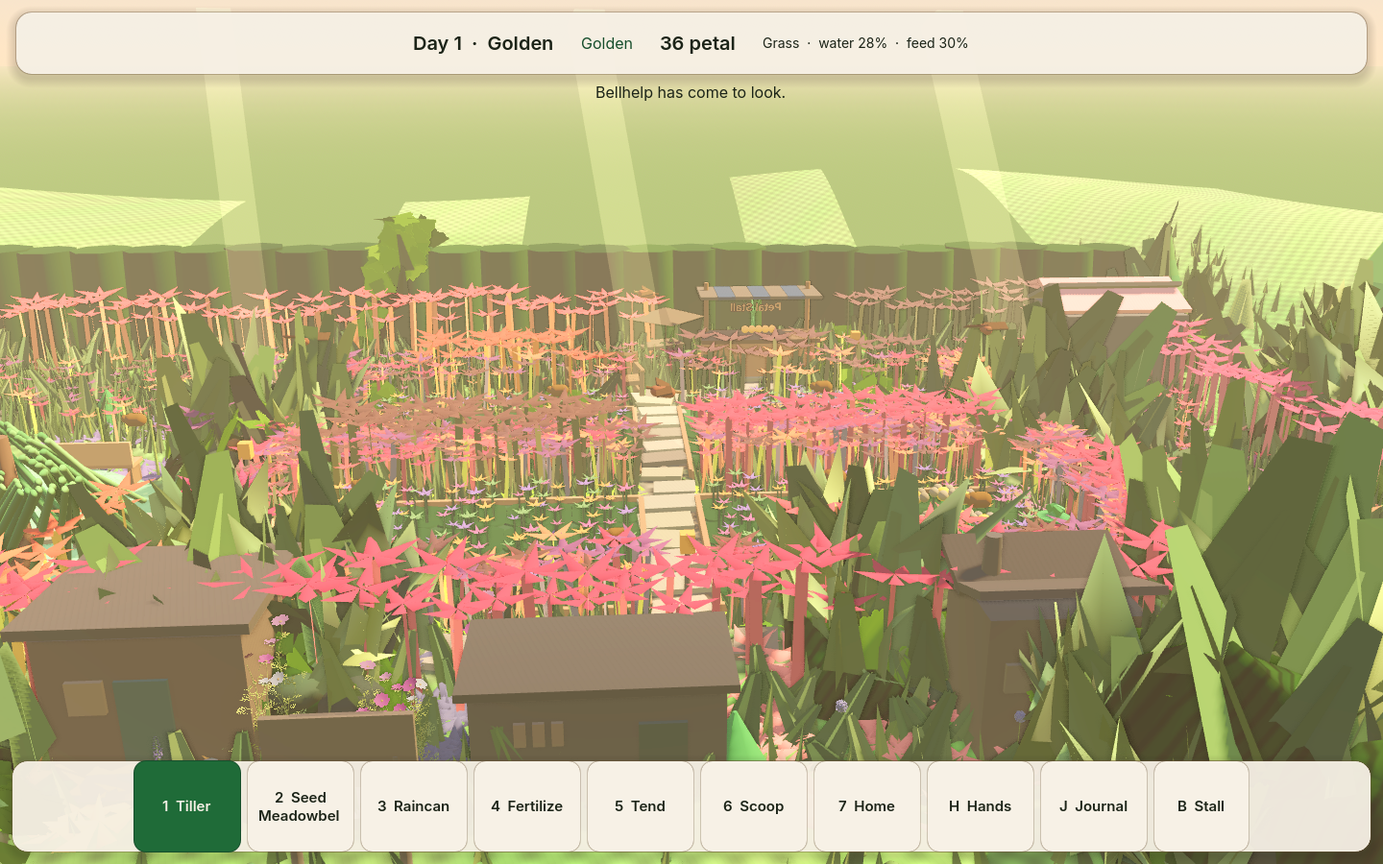
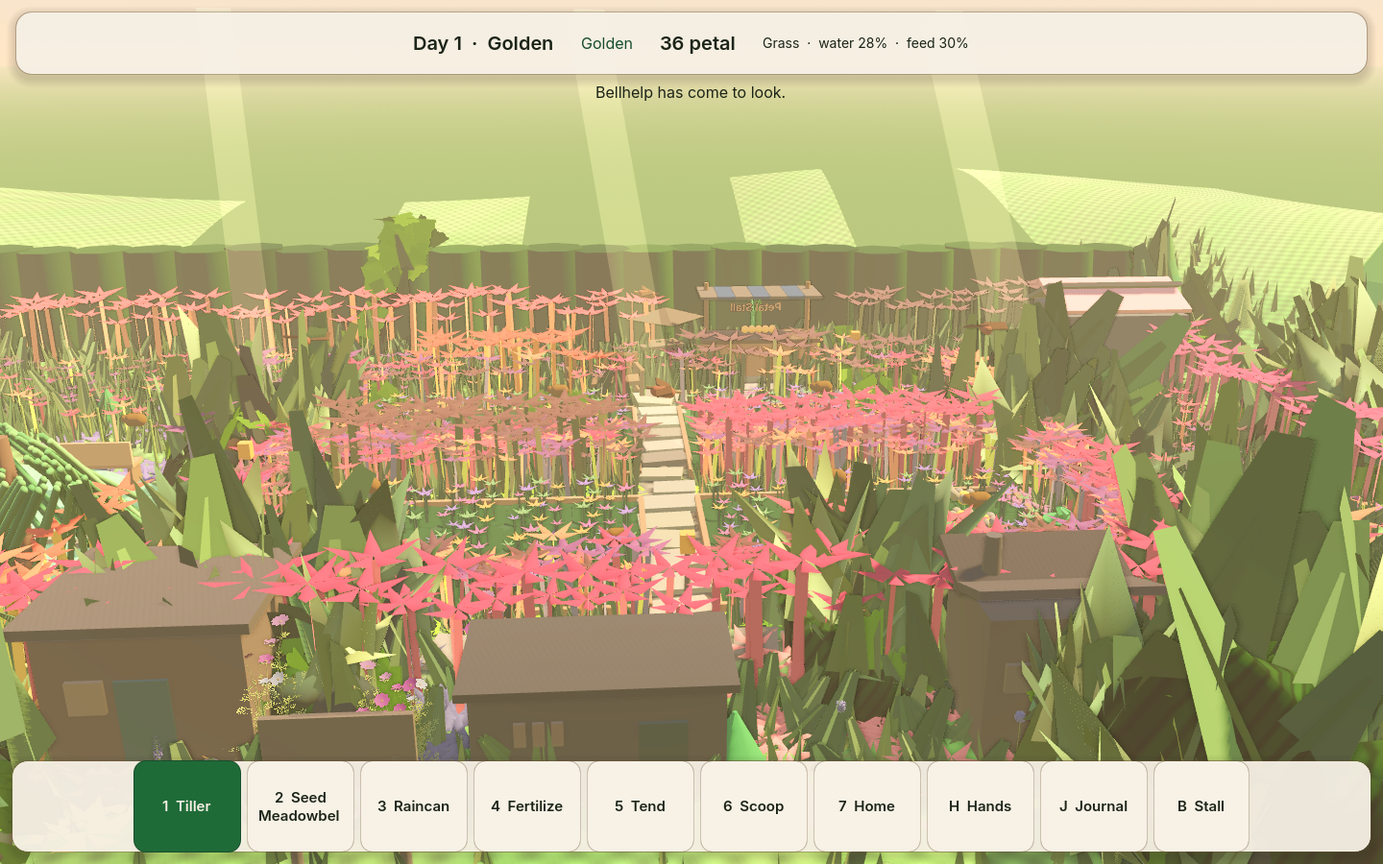
Record crops sitting in the meadow lid.
Planted cells keep the dark lid. The upper band is 1.54% light-green and the hill mean is (212.1, 223.7, 146.5).

diff --git a/docs/PETALWILD_MASTER_STATE.md b/docs/PETALWILD_MASTER_STATE.md
@@ -31,14 +31,14 @@ This machine has no Vulkan surface. Godot falls back to OpenGL 3 / llvmpipe. Aud
 - Large text resizes the garden HUD without leaving the scene.
 - Sim LOD counters. Trust levels named 0–5. Only 0 and 1 can happen, and both stay in the game.
 - Off-screen jellies hide. A resident walks to the nearest placed home kit. A visitor keeps the flower. Back in frame, the body shows again.
-- By day Lumen keeps the stall, Bram walks the plots, and Nessa watches the gate. After dusk they walk home. The directory says which. Ask Bram and he walks the driest tilled bed and waters it. The potting shed is open. Its demand is 1 while he is here. The hedge tea house stands on the south lawn. Its demand is 1 while Nessa is here, and her day round stops at the porch. The research hut stands on the south lawn, west of the tea house. She walks there to file parish notes, nothing leaves the garden, and its demand is 1 once those notes are filed. The media foundry stands between them. After the notes, she can leave a three-episode draft there. Keeping it spends nothing and sends nothing, and foundry demand is 1 once the draft is in the book. The town hall is a board by the south gate. It posts the peach tray and that draft, and its demand is how many are posted. The town beyond the hedge is not simulated. When a creature arrives and Nessa is here, she walks to them and writes the name in the parish book. The journal hides a species name until that creature is sighted. A species that has already visited comes back as a repeat, and the journal says they are back again. Scooping the bank widens the pond, and the new shore sits on the ground. Bulrush wades in once that water and three mature reeds are there. Once Bulrush is a visitor and the beds are wet, Reedic follows. Fertility is the tilled beds, so feeding them counts. Two mature brambles bring Berrypatch, and a third plus those fed beds bring Grapling. A resident Bellhelp brings Cirlark. Dusknip follows a visiting Bellhelp and, once it settles, leaves night-loam, which unwraps the nightlantern seed. A ripe peach and a nightlantern in the evening rain bring Pegapear. Night-loam, two mosspears, and those fed beds bring Gushorn. A planted meadowbell is three bells on a leaf pad, and every crop sits in a ring of eight leaves. An empty untilled bed carries nine dark leaf discs and eight short flowers, and neighboring empty cells share one lid. Tilling or planting that bed clears them and opens the seam again.
+- By day Lumen keeps the stall, Bram walks the plots, and Nessa watches the gate. After dusk they walk home. The directory says which. Ask Bram and he walks the driest tilled bed and waters it. The potting shed is open. Its demand is 1 while he is here. The hedge tea house stands on the south lawn. Its demand is 1 while Nessa is here, and her day round stops at the porch. The research hut stands on the south lawn, west of the tea house. She walks there to file parish notes, nothing leaves the garden, and its demand is 1 once those notes are filed. The media foundry stands between them. After the notes, she can leave a three-episode draft there. Keeping it spends nothing and sends nothing, and foundry demand is 1 once the draft is in the book. The town hall is a board by the south gate. It posts the peach tray and that draft, and its demand is how many are posted. The town beyond the hedge is not simulated. When a creature arrives and Nessa is here, she walks to them and writes the name in the parish book. The journal hides a species name until that creature is sighted. A species that has already visited comes back as a repeat, and the journal says they are back again. Scooping the bank widens the pond, and the new shore sits on the ground. Bulrush wades in once that water and three mature reeds are there. Once Bulrush is a visitor and the beds are wet, Reedic follows. Fertility is the tilled beds, so feeding them counts. Two mature brambles bring Berrypatch, and a third plus those fed beds bring Grapling. A resident Bellhelp brings Cirlark. Dusknip follows a visiting Bellhelp and, once it settles, leaves night-loam, which unwraps the nightlantern seed. A ripe peach and a nightlantern in the evening rain bring Pegapear. Night-loam, two mosspears, and those fed beds bring Gushorn. A planted meadowbell is three bells on a leaf pad, and every crop sits in a ring of eight leaves. An empty untilled bed carries nine dark leaf discs and eight short flowers, and neighboring empty cells share one lid. A planted cell keeps that lid. Tilling an empty cell still opens bare soil.
 
 ## Broken or not built
 
 - The garden does not yet look like the concept plates. See the gap list below.
 - Bellhelp’s five sphere lobes are gone. Five narrow petals run from the tips down to a small pad, with a dark five-petal well, a gold seed, a wider flared whorl, a lower rim, five gap tips past the lobes, a darker band, and a wide short rank inside the tips. The wide skirt of spheres is gone.
 - Lumen’s stalk is one fluted taper, cream at the base and green at the crown. The raised hand holds a seed tray. Each hand is a palm with three fingers and a thumb.
-- Crest leaf cards are 0.4 scale, and the far hedge keeps one 2.5 m tuft in four. A dark shrub row stands just behind that wall, taller at the east end. Light-green in the upper opening band fell from 53% to 24%, and in the lower band from 36% to 13%. The hill did not move. The stall still shows through the middle. The bright blue in that opening was the awning cloth. That stripe is darker now, about (171, 171, 173), and the sky-blue detector on the overview is 0. The shrub row behind the wall was the pale green in the upper band. That check now covers 1.2%, down from 3.5%. The crest leaf cards and the far trees were the side-opening pale pixels. The north backdrop trees are shorter. Paths are dark dirt with darker flagstones. Blooms are rose. StandardMaterial specular is off. The bench and planter are darkened, bright plant-atlas texels are capped, and the lantern glass is amber. The pink disk by the south-west rail, the untilled grass-plot tops, the meadowbell petals, the mauve bed, the resident hands, the light flagstones, the path dirt, and the loose stones are darkened. Overview pixels at pure white are 0. Neighboring empty cells share an overlapping dark lid. The four plots still stand apart along the paths. On this shot the upper-band check is 1.61% (1208 pixels) and the hill mean is (212.1, 223.8, 146.5). Eight bees drift over the beds. Four birds cross the garden by day and perch at dusk and in the rain.
+- Crest leaf cards are 0.4 scale, and the far hedge keeps one 2.5 m tuft in four. A dark shrub row stands just behind that wall, taller at the east end. Light-green in the upper opening band fell from 53% to 24%, and in the lower band from 36% to 13%. The hill did not move. The stall still shows through the middle. The bright blue in that opening was the awning cloth. That stripe is darker now, about (171, 171, 173), and the sky-blue detector on the overview is 0. The shrub row behind the wall was the pale green in the upper band. That check now covers 1.2%, down from 3.5%. The crest leaf cards and the far trees were the side-opening pale pixels. The north backdrop trees are shorter. Paths are dark dirt with darker flagstones. Blooms are rose. StandardMaterial specular is off. The bench and planter are darkened, bright plant-atlas texels are capped, and the lantern glass is amber. The pink disk by the south-west rail, the untilled grass-plot tops, the meadowbell petals, the mauve bed, the resident hands, the light flagstones, the path dirt, and the loose stones are darkened. Overview pixels at pure white are 0. A planted cell keeps the meadow lid, so the crop sits in the bed. The four plots still stand apart along the paths. On this shot the upper-band check is 1.54% (1149 pixels) and the hill mean is (212.1, 223.7, 146.5). Eight bees drift over the beds. Four birds cross the garden by day and perch at dusk and in the rain.
 - City, venues, and the agent civilisation are a single parish record (`data/district.json`, Hedge Hollow, phase A).
 - On-screen jellies stay at district fidelity or nearer. The directory shows each resident's home and job. The parish page lists venues. Petal Stall, the potting shed, the hedge tea house, the research hut, the media foundry, and the town hall board are open. Grove Park is not built, and demand for it is not simulated. Petal Stall demand is the people present plus creature residents.
 - Trust cannot research, draft, or act outside the process.
@@ -64,14 +64,14 @@ Spent: 0. Remaining on the connected account: **367.46** (pro). Catalog check re
 
 Compared `docs/screenshots/wave1_overview.png`, `wave1_jelly.png`, and `wave1_lumen.png` with `docs/reference/petalwild_target_garden_01.png` and `petalwild_target_garden_02.png`.
 
-The north backdrop trees are shorter than the hedge. Crest leaf cards are 0.4 scale, and the far hedge keeps one 2.5 m tuft in four. A dark shrub row stands just behind that wall, taller at the east end. Light-green pixels fell from 53% to 24% in the upper opening band (screen y 265–320) and from 36% to 13% in the lower band (y 290–360). East-lip luminance (y 252–272) fell from 200 to 162. The hill (y 200–245) did not change. Bellhelp’s close-up is on open lawn: five narrow lobes, a dark five-petal well, a gold seed, a wider flared whorl, a lower rim, five gap tips past the lobes, a darker band, and a wide short rank inside the tips. The bench and planter use a dark multiply, bright plant-atlas texels are capped, and the lantern glass is amber. The pink disk by the south-west rail, the untilled grass-plot tops, the meadowbell petals, the mauve bed, the resident hands, the light flagstones, the path dirt, and the loose stones are darkened. Pure white on this overview is 0. The stall awning’s bright blue was cloth, now about (171, 171, 173), and the sky-blue detector is 0. The shrub row behind the wall no longer reads as pale green; that upper-band check is 1.2%. On the previous shot that check was 1.17% and the hill mean was (212.9, 224.4, 147.6). With the hedge tea house in the lower left, that shot was 1.30%. With the research hut in the lower middle, that shot was 1.17% (874 pixels). With the media foundry in the lower middle, that shot was 1.15% (862 pixels). With the town hall board in the south gate, that shot was 1.29% (968 pixels) and the hill mean was (212.0, 223.6, 146.4). On that shot the check was 1.54% (1155 pixels) and the hill mean was (212.0, 223.7, 146.5). Empty untilled beds now carry nine dark leaf discs and eight short flowers, and a tilled or planted bed clears them. On the leaf-cover shot the check was 1.60% (1197 pixels) and the hill mean was (212.1, 223.8, 146.5). Neighboring empty cells now share an overlapping dark lid, so the brown seam inside a plot closes. On this shot the check is 1.61% (1208 pixels) and the hill mean is (212.1, 223.8, 146.5). The extra light-green is the west edge of the hill under the swaying leaves. A planted meadowbell is three bells on a leaf pad, and every crop sits in a ring of eight leaves. Eight bees drift over the beds. Four birds cross the garden by day and perch at dusk and in the rain. Paths are flagstones on dark dirt. Lumen’s stalk is one fluted taper, and the raised hand holds the seed tray. `PETAL_SMOKE_OK`, `PETAL_RULES_OK`, and `PETAL_CAPTURE_OK` passed on this tree. Shots are the six `wave1_*.png` files.
+The north backdrop trees are shorter than the hedge. Crest leaf cards are 0.4 scale, and the far hedge keeps one 2.5 m tuft in four. A dark shrub row stands just behind that wall, taller at the east end. Light-green pixels fell from 53% to 24% in the upper opening band (screen y 265–320) and from 36% to 13% in the lower band (y 290–360). East-lip luminance (y 252–272) fell from 200 to 162. The hill (y 200–245) did not change. Bellhelp’s close-up is on open lawn: five narrow lobes, a dark five-petal well, a gold seed, a wider flared whorl, a lower rim, five gap tips past the lobes, a darker band, and a wide short rank inside the tips. The bench and planter use a dark multiply, bright plant-atlas texels are capped, and the lantern glass is amber. The pink disk by the south-west rail, the untilled grass-plot tops, the meadowbell petals, the mauve bed, the resident hands, the light flagstones, the path dirt, and the loose stones are darkened. Pure white on this overview is 0. The stall awning’s bright blue was cloth, now about (171, 171, 173), and the sky-blue detector is 0. The shrub row behind the wall no longer reads as pale green; that upper-band check is 1.2%. On the previous shot that check was 1.17% and the hill mean was (212.9, 224.4, 147.6). With the hedge tea house in the lower left, that shot was 1.30%. With the research hut in the lower middle, that shot was 1.17% (874 pixels). With the media foundry in the lower middle, that shot was 1.15% (862 pixels). With the town hall board in the south gate, that shot was 1.29% (968 pixels) and the hill mean was (212.0, 223.6, 146.4). On that shot the check was 1.54% (1155 pixels) and the hill mean was (212.0, 223.7, 146.5). Empty untilled beds now carry nine dark leaf discs and eight short flowers, and a tilled or planted bed clears them. On the leaf-cover shot the check was 1.60% (1197 pixels) and the hill mean was (212.1, 223.8, 146.5). Neighboring empty cells now share an overlapping dark lid, so the brown seam inside a plot closes. On the joined-lid shot the check was 1.61% (1208 pixels) and the hill mean was (212.1, 223.8, 146.5). A planted cell now keeps that dark lid, so the crop sits in the meadow instead of an inset square. On this shot the check is 1.54% (1149 pixels) and the hill mean is (212.1, 223.7, 146.5). The swing is the west edge of the hill under the swaying leaves. A planted meadowbell is three bells on a leaf pad, and every crop sits in a ring of eight leaves. Eight bees drift over the beds. Four birds cross the garden by day and perch at dusk and in the rain. Paths are flagstones on dark dirt. Lumen’s stalk is one fluted taper, and the raised hand holds the seed tray. `PETAL_SMOKE_OK`, `PETAL_RULES_OK`, and `PETAL_CAPTURE_OK` passed on this tree. Shots are the six `wave1_*.png` files.
 
 Three largest gaps still open, against `docs/reference/petalwild_target_garden_01.png` and `petalwild_target_garden_02.png`:
 
-1. **Hedge skyline.** The crest cards and the far trees are darker. On this shot 1.61% of the upper band is still light-green (1208 pixels), mostly the west edge of the hill. The hill mean is (212.1, 223.8, 146.5). The stall still shows through the middle. The south rooms, the gate board, and the bed blooms sit lower and do not cover that edge. PETAL-05.
+1. **Hedge skyline.** The crest cards and the far trees are darker. On this shot 1.54% of the upper band is still light-green (1149 pixels), mostly the west edge of the hill. The hill mean is (212.1, 223.7, 146.5). The stall still shows through the middle. The south rooms, the gate board, and the bed blooms sit lower and do not cover that edge. PETAL-05.
 2. **Bellhelp.** Ten tips, a short rank inside them, a darker band, and a wider skirt. The dark throat is still the center. PETAL-03.
-3. **Plot grid.** Neighboring empty cells share an overlapping dark lid, so the brown seam inside a plot closes. The four plots still stand apart along the paths, and a planted cell stays an inset. The plates are one continuous planting. Overview pixels at pure white are 0, and the brightest leftover is still the warm horizon at screen x 1034, y 178, (255, 255, 201). That is sky. PETAL-06.
+3. **Plot grid.** A planted cell keeps the meadow lid, so it no longer punches an inset square. The four plots still stand apart along the paths. The plates are one continuous planting. Overview pixels at pure white are 0, and the brightest leftover is still the warm horizon at screen x 1034, y 178, (255, 255, 201). That is sky. PETAL-06.
 
 ## Next integration
 
-Keep this build playable. The next pass stays inside `scenes/main.tscn` (Hedge Hollow). The creature chain through Gushorn can happen in this garden. Grove Park is still not built. The hedge tea house stands on the south lawn. The research hut stands west of it, and the media foundry stands between them. The town hall is a board by the south gate. Meadowbells are a clump of three, and every crop sits in a ring of leaves. Neighboring empty cells share an overlapping dark lid, and the four plots still stand apart along the paths. On this shot 1.61% of the upper band is still light green (1208 pixels), mostly the west edge of the hill, and the stall still shows through the middle. The hill mean is (212.1, 223.8, 146.5). The south rooms and the town hall board sit in the foreground. Bees sit on the flowers while it rains. Do not paint that hill edge, do not cut the hill, and do not raise the east shrubs. Do not fill Bellhelp’s dark throat. Do not open a side demo. The Kenney/Cara grove in `scripts/presentation/` is not the running scene.
+Keep this build playable. The next pass stays inside `scenes/main.tscn` (Hedge Hollow). The creature chain through Gushorn can happen in this garden. Grove Park is still not built. The hedge tea house stands on the south lawn. The research hut stands west of it, and the media foundry stands between them. The town hall is a board by the south gate. Meadowbells are a clump of three, and every crop sits in a ring of leaves. A planted cell keeps the meadow lid, and the four plots still stand apart along the paths. On this shot 1.54% of the upper band is still light green (1149 pixels), mostly the west edge of the hill, and the stall still shows through the middle. The hill mean is (212.1, 223.7, 146.5). The south rooms and the town hall board sit in the foreground. Bees sit on the flowers while it rains. Do not paint that hill edge, do not cut the hill, and do not raise the east shrubs. Do not fill Bellhelp’s dark throat. Do not open a side demo. The Kenney/Cara grove in `scripts/presentation/` is not the running scene.

diff --git a/docs/VISUAL_GAP.md b/docs/VISUAL_GAP.md
@@ -2,12 +2,12 @@
 
 Compared on 2026-09-22. The scene `tools/run.sh` launches is Hedge Hollow. Shots: `docs/screenshots/wave1_overview.png`, `wave1_jelly.png`, `wave1_lumen.png`. Targets: `docs/reference/petalwild_target_garden_01.png` and `petalwild_target_garden_02.png`.
 
-The north backdrop trees are shorter than the hedge. Crest leaf cards are 0.4 of their old size, and the far wall keeps one 2.5 m tuft in four. A row of dark shrubs stands just behind that wall. The east end is taller so its lip meets the hedge line. Light-green pixels in the upper opening band (screen y 265–320, x 40–1400) fell from 53% to 24%, and in the lower band (y 290–360, x 80–1200) from 36% to 13%. On the east lip (y 252–272, x 40–300) mean luminance fell from 200 to 162. The hill (y 200–245) did not change. The stall still sits in front of the middle of the wall. The bright blue band in that opening was the awning cloth, not a hole in the hedge. That stripe is darker now and reads about (171, 171, 173). A sky-blue detector on the overview (blue above 200, ahead of red by 20 and of green by 10) is 0. The shrub row behind the wall was lifting to pale green under the sun. The same light-green check (green ahead of red by 15 and of blue by 20, green above 140) now covers 1.2% of the upper band, down from 3.5% on the previous shot. The crest leaf cards and the far trees were the pale pixels in the side openings. The upper hill (screen y 200–230) stayed at about (213, 224, 148). The ground sky below the horizon is green, so a hole in the hill reads as olive rather than pale sky. Bellhelp’s close-up shows five pointed lobes, five gap tips past them, a wide short rank inside that ring, a darker band, and a wider flared whorl. The dark throat stays. The wide skirt of spheres is gone. The bench and planter use a dark multiply on the prop texture, and bright plant-atlas texels are capped. The three lantern glasses are amber instead of pure white. The pink disk by the south-west rail, the untilled grass-plot tops, the meadowbell petals, the mauve bed, the resident hands, the light flagstones, the path dirt, and the loose stones are darkened so they stay under the sun. Eight bees drift over the beds. Four birds cross the garden by day and perch at dusk and in the rain. A planted meadowbell is three bells on a leaf pad, and every crop sits in a ring of eight leaves. Pure white on this overview is 0. On the previous shot the upper-band light-green check was 1.17% and the hill mean was (212.9, 224.4, 147.6). The hedge tea house stands in the lower left of the home shot. On that shot the same check was 1.30% (969 pixels) and the hill mean was (212.0, 223.6, 146.4). The research hut stands in the lower middle of that shot, where the check was 1.17% (874 pixels) and the hill mean was (212.0, 223.6, 146.4). The media foundry stands in the lower middle of that shot, where the check was 1.15% (862 pixels) and the hill mean was (212.0, 223.6, 146.4). The town hall board now stands in the south gate. On the town-hall shot the check was 1.29% (968 pixels) and the hill mean was (212.0, 223.6, 146.4). On the six-bloom shot the check was 1.54% (1155 pixels) and the hill mean was (212.0, 223.7, 146.5). Empty untilled beds now carry nine dark leaf discs and eight short flowers, and a tilled or planted bed clears them. On the leaf-cover shot the check was 1.60% (1197 pixels) and the hill mean was (212.1, 223.8, 146.5). Neighboring empty cells now share an overlapping dark lid, so the brown seam inside a plot closes. On this shot the check is 1.61% (1208 pixels) and the hill mean is (212.1, 223.8, 146.5). The extra light-green sits on the west edge of the hill under the swaying leaves.
+The north backdrop trees are shorter than the hedge. Crest leaf cards are 0.4 of their old size, and the far wall keeps one 2.5 m tuft in four. A row of dark shrubs stands just behind that wall. The east end is taller so its lip meets the hedge line. Light-green pixels in the upper opening band (screen y 265–320, x 40–1400) fell from 53% to 24%, and in the lower band (y 290–360, x 80–1200) from 36% to 13%. On the east lip (y 252–272, x 40–300) mean luminance fell from 200 to 162. The hill (y 200–245) did not change. The stall still sits in front of the middle of the wall. The bright blue band in that opening was the awning cloth, not a hole in the hedge. That stripe is darker now and reads about (171, 171, 173). A sky-blue detector on the overview (blue above 200, ahead of red by 20 and of green by 10) is 0. The shrub row behind the wall was lifting to pale green under the sun. The same light-green check (green ahead of red by 15 and of blue by 20, green above 140) now covers 1.2% of the upper band, down from 3.5% on the previous shot. The crest leaf cards and the far trees were the pale pixels in the side openings. The upper hill (screen y 200–230) stayed at about (213, 224, 148). The ground sky below the horizon is green, so a hole in the hill reads as olive rather than pale sky. Bellhelp’s close-up shows five pointed lobes, five gap tips past them, a wide short rank inside that ring, a darker band, and a wider flared whorl. The dark throat stays. The wide skirt of spheres is gone. The bench and planter use a dark multiply on the prop texture, and bright plant-atlas texels are capped. The three lantern glasses are amber instead of pure white. The pink disk by the south-west rail, the untilled grass-plot tops, the meadowbell petals, the mauve bed, the resident hands, the light flagstones, the path dirt, and the loose stones are darkened so they stay under the sun. Eight bees drift over the beds. Four birds cross the garden by day and perch at dusk and in the rain. A planted meadowbell is three bells on a leaf pad, and every crop sits in a ring of eight leaves. Pure white on this overview is 0. On the previous shot the upper-band light-green check was 1.17% and the hill mean was (212.9, 224.4, 147.6). The hedge tea house stands in the lower left of the home shot. On that shot the same check was 1.30% (969 pixels) and the hill mean was (212.0, 223.6, 146.4). The research hut stands in the lower middle of that shot, where the check was 1.17% (874 pixels) and the hill mean was (212.0, 223.6, 146.4). The media foundry stands in the lower middle of that shot, where the check was 1.15% (862 pixels) and the hill mean was (212.0, 223.6, 146.4). The town hall board now stands in the south gate. On the town-hall shot the check was 1.29% (968 pixels) and the hill mean was (212.0, 223.6, 146.4). On the six-bloom shot the check was 1.54% (1155 pixels) and the hill mean was (212.0, 223.7, 146.5). Empty untilled beds now carry nine dark leaf discs and eight short flowers, and a tilled or planted bed clears them. On the leaf-cover shot the check was 1.60% (1197 pixels) and the hill mean was (212.1, 223.8, 146.5). Neighboring empty cells now share an overlapping dark lid, so the brown seam inside a plot closes. On the joined-lid shot the check was 1.61% (1208 pixels) and the hill mean was (212.1, 223.8, 146.5). A planted cell now keeps that dark lid, so the crop sits in the meadow instead of an inset square. On this shot the check is 1.54% (1149 pixels) and the hill mean is (212.1, 223.7, 146.5). The swing is the west edge of the hill under the swaying leaves.
 
 ## Three largest gaps
 
-1. **Hedge skyline.** The crest cards and the far trees are darker. On this shot 1.61% of the upper band is still light-green (1208 pixels), mostly the west edge of the hill. The hill mean is (212.1, 223.8, 146.5). The stall still shows through the middle. The south rooms, the gate board, and the bed blooms sit lower and do not cover that edge. PETAL-05.
+1. **Hedge skyline.** The crest cards and the far trees are darker. On this shot 1.54% of the upper band is still light-green (1149 pixels), mostly the west edge of the hill. The hill mean is (212.1, 223.7, 146.5). The stall still shows through the middle. The south rooms, the gate board, and the bed blooms sit lower and do not cover that edge. PETAL-05.
 
 2. **Bellhelp.** Ten tips, a short rank inside them, a darker band, and a wider skirt. The dark throat is still the center. PETAL-03.
 
-3. **Plot grid.** Neighboring empty cells share an overlapping dark lid, so the brown seam inside a plot closes. The four plots still stand apart along the paths, and a planted cell stays an inset. The plates are one continuous planting. Overview pixels at pure white are 0, and the brightest leftover is still the warm horizon at screen x 1034, y 178, (255, 255, 201). That is sky. PETAL-06.
+3. **Plot grid.** A planted cell keeps the meadow lid, so it no longer punches an inset square. The four plots still stand apart along the paths. The plates are one continuous planting. Overview pixels at pure white are 0, and the brightest leftover is still the warm horizon at screen x 1034, y 178, (255, 255, 201). That is sky. PETAL-06.
